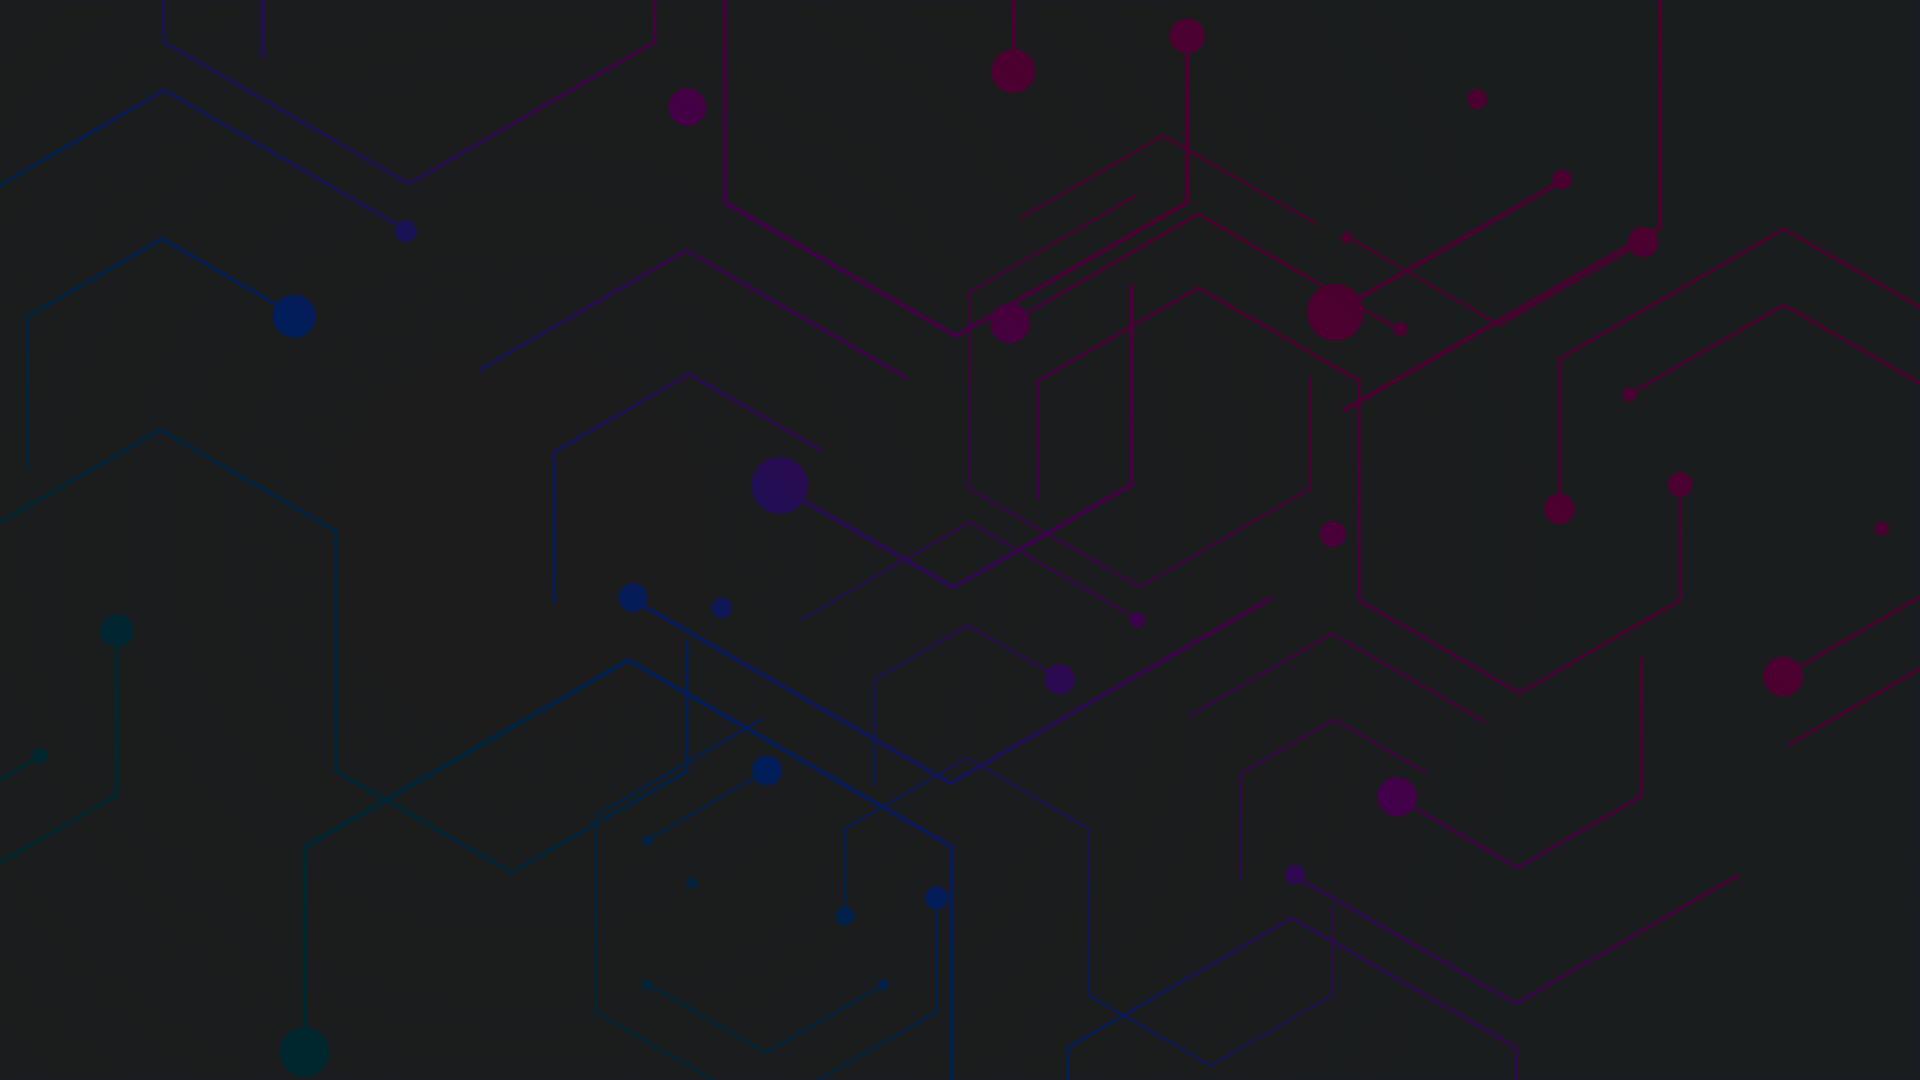
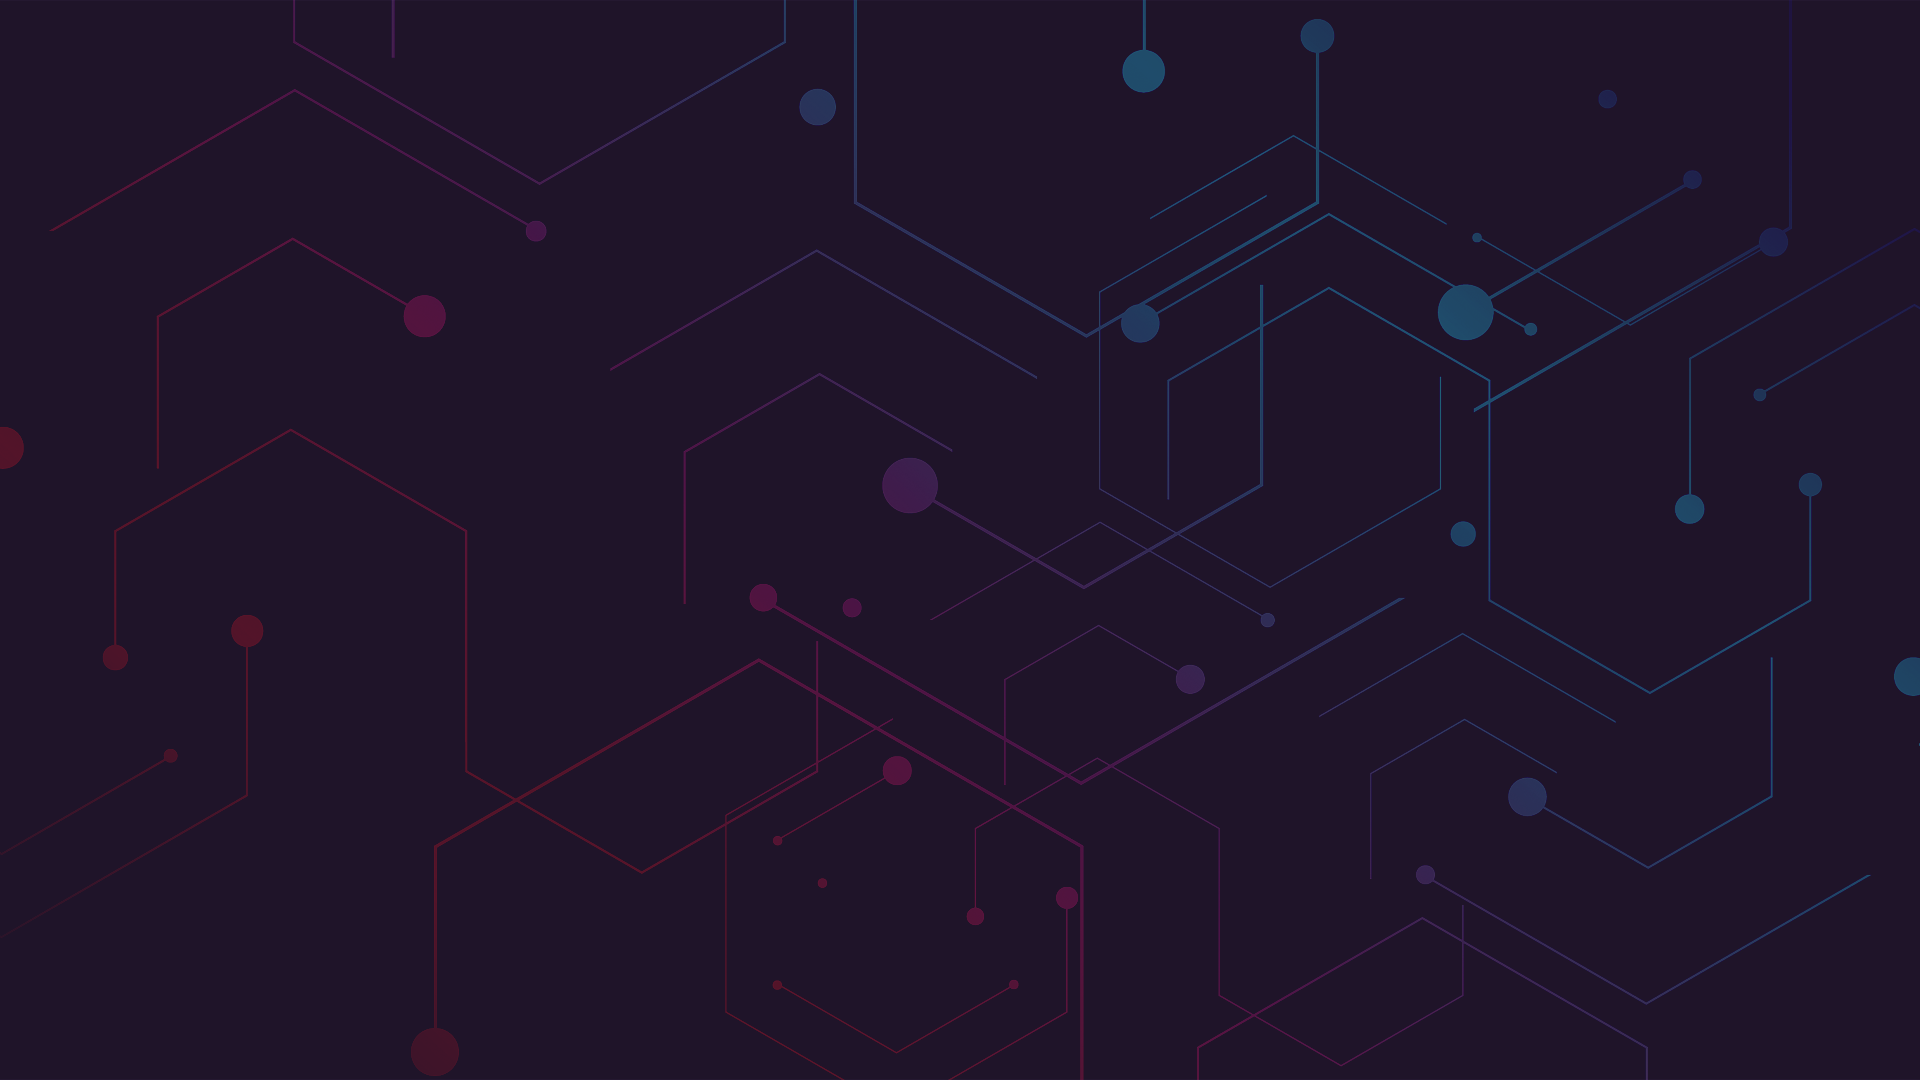
updated about, small style changes

diff --git a/src/components/About.js b/src/components/About.js
@@ -15,12 +15,13 @@ function About() {
         <div className="m-5">
             <div className='d-md-flex px-4'>
                 <div>
-                    <h3>Sam is a Web Developer with technical education from Purdue University Northwest and Michigan State University.</h3>
-                    <p>They enrolled in the Computer Graphics Technology program at Purdue in the fall of 2016, graduating with a Bachelor's degree in May 2020. Then in the summer of 2022, they decided to further their coding education and enrolled in a Full Stack Coding Boot Camp through Michigan State, graduating from this program in March 2023.</p>
-                    
+                    <h3>Hi, my name is Sam and I am a <span style={{fontSize: '37px', color: 'var(--accent)'}}>full stack web developer</span>.</h3>
+                    <p>My journey started in the Computer Graphics Technology program at Purdue University Northwest in the fall of 2016. I initially entered the program to follow a different path but soon found an appreciation and enjoyment for web development along the way.</p>
+                    <p>Two years after graduating from Purdue, I decided to further my education after discovering a coding boot camp through Michigan State University (partnered with Trilogy Education Services, LLC). This program began in September 2022 and concluded in March 2023.</p>
+                    <p>The reason I enjoy coding is because I view it as a puzzle. I have all the pieces and my problem-solving nature wants to put those pieces together to create a one-of-a-kind final picture.</p>
                 </div>
                 <div className='d-flex justify-content-center'>
-                    <img src={require('../images/avatar.png')} alt="Cartoon depiction of the developer." style={dev}/>
+                    <img src={require('../images/avatar.png')} alt="A cartoon depiction of Sam with shoulder length blonde hair. They are wearing a black and white striped shirt with a gray cardigan and a black beanie." style={dev}/>
                 </div>
             </div>
             

diff --git a/src/components/Contact.js b/src/components/Contact.js
@@ -68,7 +68,7 @@ function Contact() {
         <div className='my-5 d-md-flex'>
         <div className='w-100 d-md-block'>
                 <h3>Contact Me</h3>
-                <p>Have a question or comment for me? Send a message in the form provided or email me directly at <a className="email" href="mailto:samswain.dev@gmail.com">samswain.dev@gmail.com</a>. I'd love to hear from you and will get back to you within 24 hours.</p>
+                <p>Want to reach out? Send a message in the form provided or email me directly at <a className="email" href="mailto:samswain.dev@gmail.com">samswain.dev@gmail.com</a>. I'd love to hear from you and will get back to you within 24 hours.</p>
         </div>
         <div className='w-100 d-md-block'>
             <form className='d-flex flex-column mx-2' onSubmit={onSubmit}>

diff --git a/src/components/Navbar.js b/src/components/Navbar.js
@@ -15,7 +15,7 @@ function Navbar() {
     return (  
 
     <nav className="main-header-menu w-100 d-md-inline-flex justify-content-between">
-      <h1 className='m-4' style={{paddingLeft: '35px'}}>Sam Bensema <span>(they/them)</span></h1>
+      <h1 className='m-4' style={{paddingLeft: '35px'}}>Sam Bensema</h1>
       
       <section style={nav} className='m-4'>        
         <div>

diff --git a/src/components/Footer.js b/src/components/Footer.js
@@ -6,7 +6,7 @@ import { BsStackOverflow } from 'react-icons/bs';
 function About() {
     const footer = {
         width: "100%",
-        backgroundColor: "var(--accent)",
+        // backgroundColor: "var(--accent)",
         borderTop: "1px solid var(--text)",
         display: "flex",
         justifyContent: "center"

diff --git a/src/index.css b/src/index.css
@@ -2,7 +2,7 @@
 
 :root {
   --text: #e6e1e7;
-  --accent: #3b2e50;
+  --accent: #9966cc;
 }
 
 * {
@@ -54,7 +54,7 @@ button {
 }
 
 .email, .email:hover {
-  color: var(--text);
+  color: var(--accent);
 }
 
 .textLayer, .annotationLayer {
